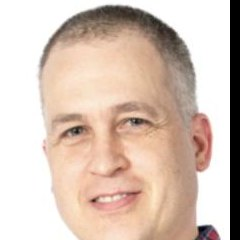
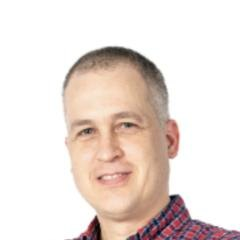
Équipe : portraits harmonisés, photo de Bilal Manaï
Claude-Session: https://claude.ai/code/session_01M2T4puYVa5WwyfSRESR7Hv

diff --git a/enseignants.html b/enseignants.html
@@ -457,7 +457,7 @@ a.logo-projet{text-decoration:none}
           <span class="liens-p"><a href="https://crsebo.ca/?page_id=32" target="_blank" rel="noopener">Profil</a><a href="https://www.linkedin.com/in/catherine-hall%C3%A9-393985248/" target="_blank" rel="noopener"><img class="ico-li" src="https://www.linkedin.com/favicon.ico" alt="" width="18" height="18">LinkedIn</a></span>
         </article>
         <article class="membre">
-          <div class="membre-tete"><span class="initiales " aria-hidden="true">BM</span><div><strong>Bilal Manaï</strong><span class="inst">Cégep de l'Outaouais · Centre SEBO</span></div></div>
+          <div class="membre-tete"><img class="portrait" src="assets/portrait-manai-bilal.jpg" alt="Portrait de Bilal Manaï" width="64" height="64" loading="lazy"><div><strong>Bilal Manaï</strong><span class="inst">Cégep de l'Outaouais · Centre SEBO</span></div></div>
           <ul><li>Directeur du volet électronique, IoT, intelligence artificielle et programmation</li><li>Enseignant-chercheur au SEBO</li></ul>
           <span class="liens-p"><a href="https://crsebo.ca/?page_id=32" target="_blank" rel="noopener">Profil</a><a href="https://www.linkedin.com/in/bilalmanai/" target="_blank" rel="noopener"><img class="ico-li" src="https://www.linkedin.com/favicon.ico" alt="" width="18" height="18">LinkedIn</a></span>
         </article>
